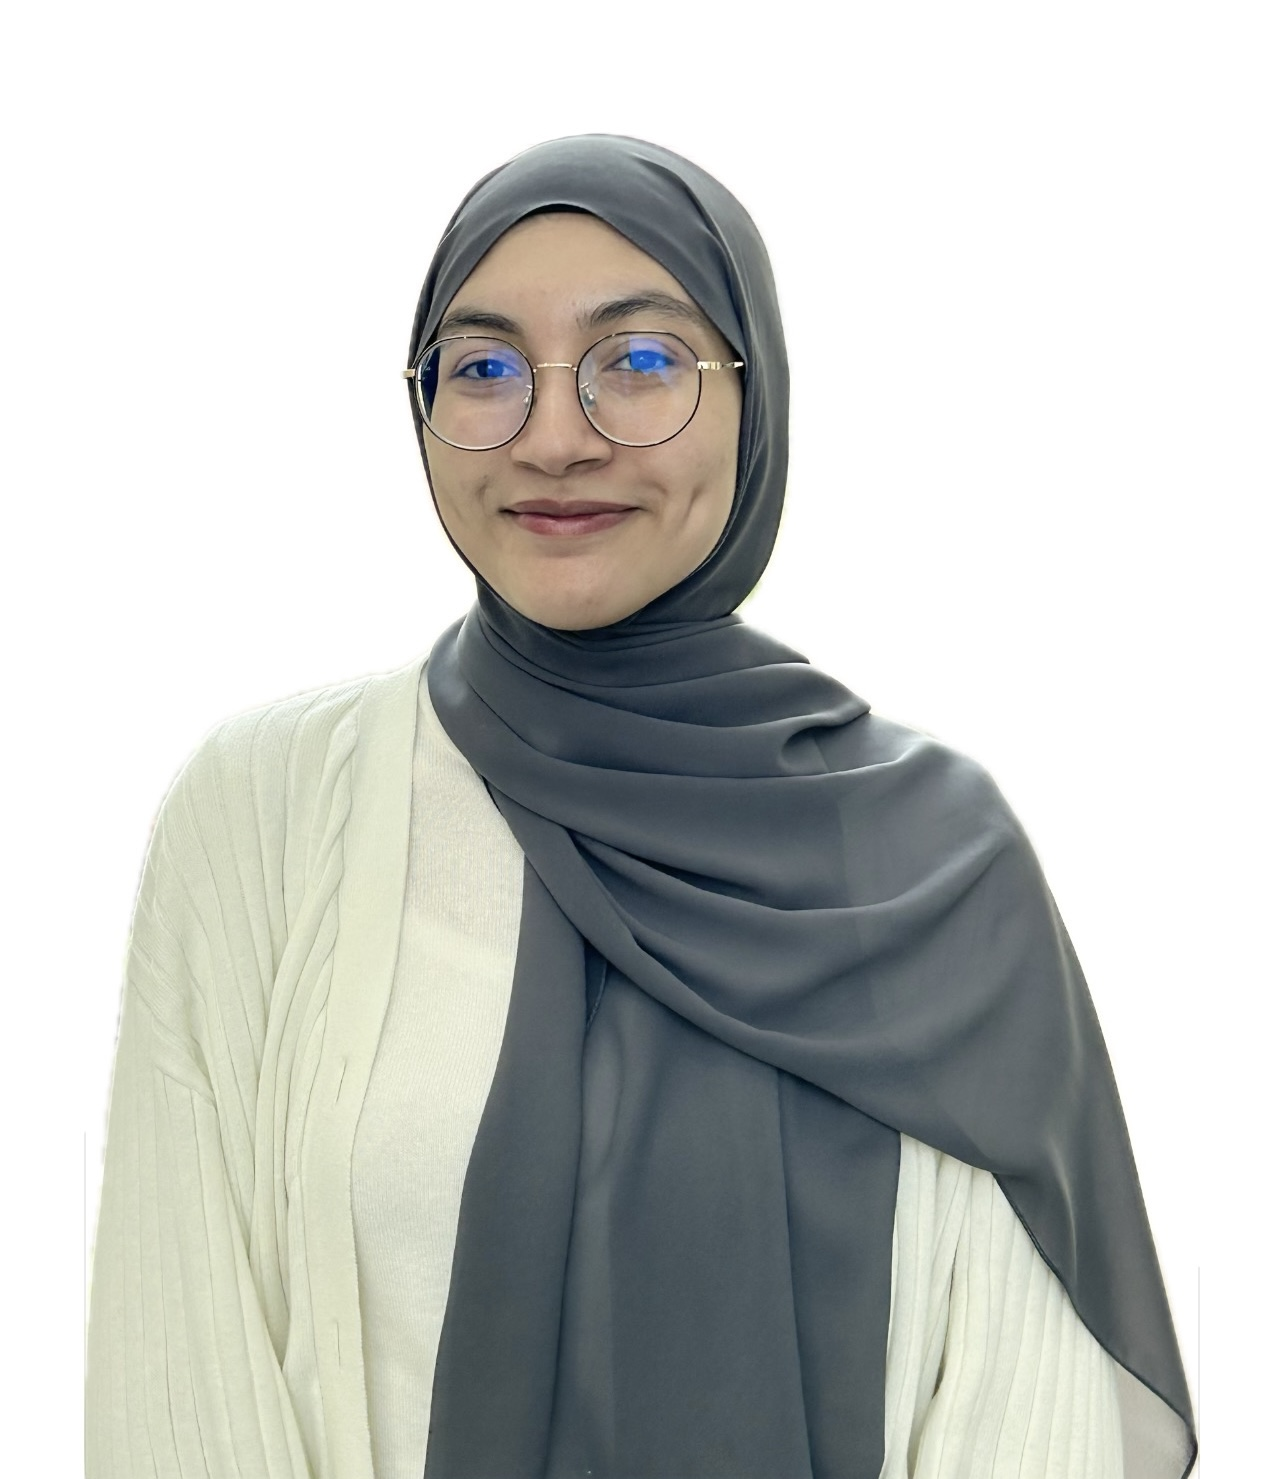
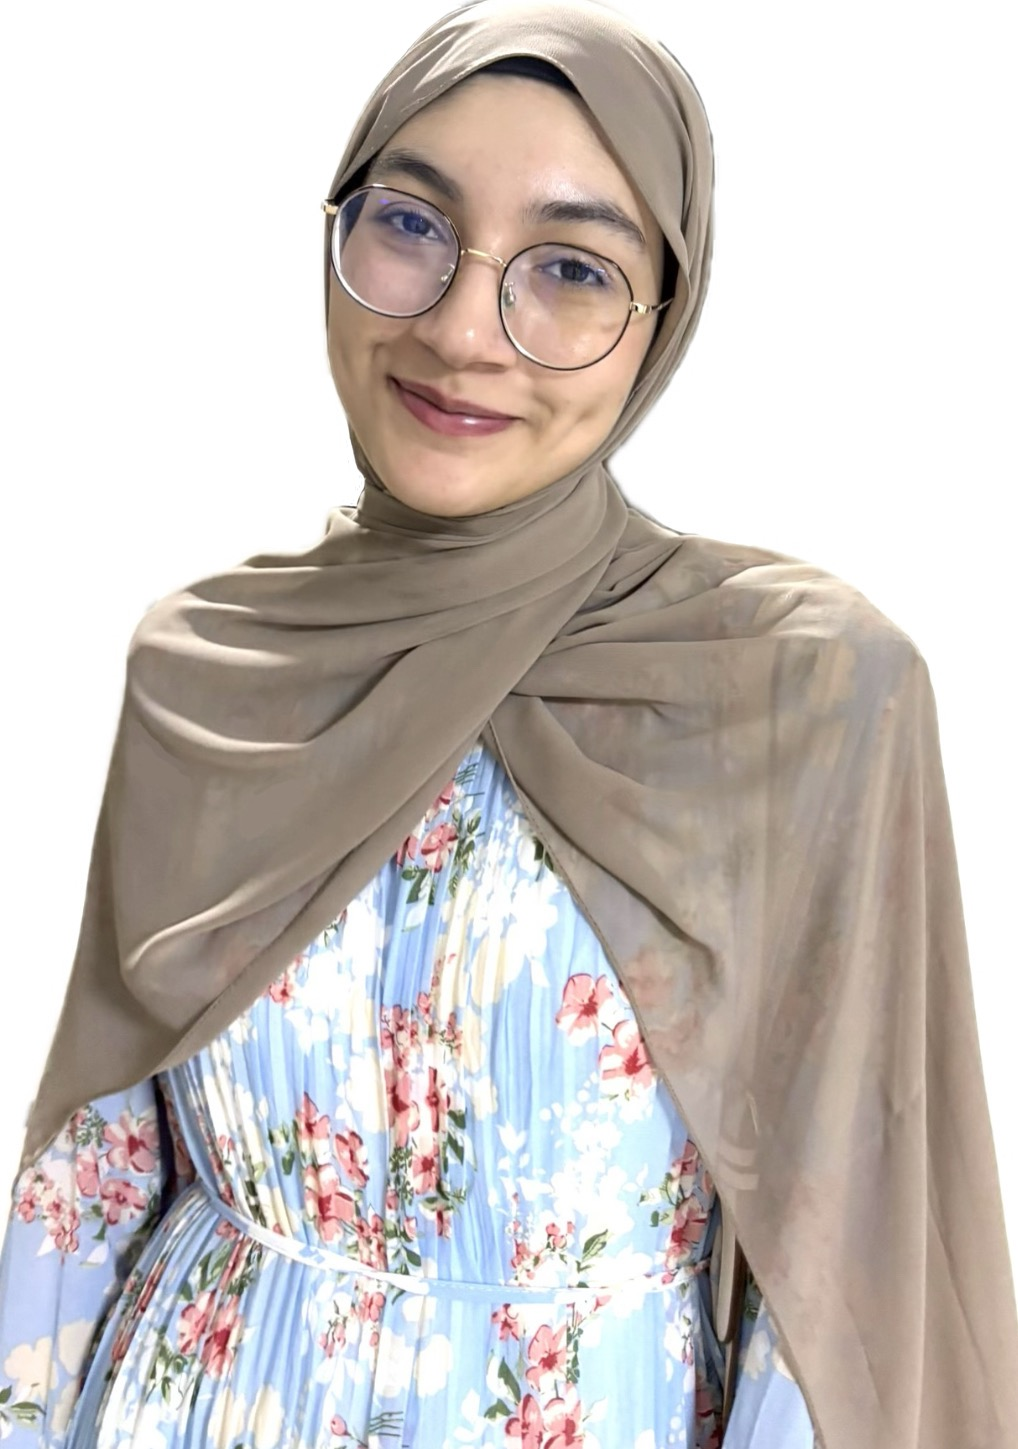
so much to fix, i gave up

diff --git a/src/app/about/page.tsx b/src/app/about/page.tsx
@@ -1,0 +1,327 @@
+// pages/about.tsx
+import React from 'react';
+import Image from 'next/image';
+
+// You can import your portfolio data here
+// import { portfolioData } from '../data/portfolioData';
+
+// Or define the skills data structure like this:
+interface Skill {
+  name: string;
+  icon: string; // path to icon or icon component
+  category: 'programming' | 'web' | 'database' | 'cloud';
+}
+
+// Sample skills data - replace with your actual data
+const skillsData: Skill[] = [
+  // Programming Languages
+  { name: 'Python', icon: '/icons/python.svg', category: 'programming' },
+  { name: 'Java', icon: '/icons/java.svg', category: 'programming' },
+  { name: 'JavaScript', icon: '/icons/javascript.svg', category: 'programming' },
+  { name: 'C#', icon: '/icons/csharp.svg', category: 'programming' },
+  
+  // Web Development
+  { name: 'HTML5', icon: '/icons/html5.svg', category: 'web' },
+  { name: 'CSS3', icon: '/icons/css3.svg', category: 'web' },
+  { name: 'React', icon: '/icons/react.svg', category: 'web' },
+  { name: 'Next.js', icon: '/icons/nextjs.svg', category: 'web' },
+  { name: 'Tailwind CSS', icon: '/icons/tailwind.svg', category: 'web' },
+  { name: 'Swift', icon: '/icons/swift.svg', category: 'web' },
+  { name: 'Node.js', icon: '/icons/nodejs.svg', category: 'web' },
+  { name: 'Spring Boot', icon: '/icons/spring.svg', category: 'web' },
+  
+  // Database
+  { name: 'MySQL', icon: '/icons/mysql.svg', category: 'database' },
+  { name: 'PostgreSQL', icon: '/icons/postgresql.svg', category: 'database' },
+];
+
+const SkillIcon: React.FC<{ skill: Skill }> = ({ skill }) => {
+  return (
+    <div className="group relative inline-block">
+      <div className="w-16 h-16 flex items-center justify-center bg-white rounded-lg shadow-md hover:shadow-lg transition-all duration-300 hover:scale-110 cursor-pointer">
+        <Image 
+          src={skill.icon} 
+          alt={skill.name}
+          width={40}
+          height={40}
+          className="object-contain"
+        />
+      </div>
+      {/* Tooltip */}
+      <div className="absolute bottom-full left-1/2 transform -translate-x-1/2 mb-2 px-3 py-1 bg-gray-800 text-white text-sm rounded-md opacity-0 group-hover:opacity-100 transition-opacity duration-300 pointer-events-none whitespace-nowrap z-10">
+        {skill.name}
+        <div className="absolute top-full left-1/2 transform -translate-x-1/2 border-l-4 border-r-4 border-t-4 border-transparent border-t-gray-800"></div>
+      </div>
+    </div>
+  );
+};
+
+// Import your reusable components
+const GeometricPattern: React.FC<{
+  side: 'left' | 'right';
+  colors: { primary: string; secondary: string; light: string };
+}> = ({ side, colors }) => {
+  const { primary, secondary, light } = colors;
+  
+  if (side === 'left') {
+    return (
+      <div className="absolute top-0 left-0 h-full w-32 flex flex-col justify-evenly z-0 pl-4">
+        {/* Top group */}
+        <div className="flex flex-col gap-1">
+          <div className="flex gap-1">
+            <div className={`w-5 h-5 ${light}`}></div>
+            <div className={`w-5 h-5 ${primary}`}></div>
+          </div>
+          <div className="flex gap-1 ml-3">
+            <div className={`w-5 h-5 ${primary}`}></div>
+            <div className={`w-5 h-5 ${secondary}`}></div>
+            <div className={`w-5 h-5 ${primary}`}></div>
+          </div>
+          <div className="flex gap-1">
+            <div className={`w-5 h-5 ${secondary}`}></div>
+            <div className={`w-5 h-5 ${primary}`}></div>
+          </div>
+        </div>
+        
+        {/* Middle group */}
+        <div className="flex flex-col gap-1">
+          <div className="flex gap-1">
+            <div className={`w-5 h-5 ${primary}`}></div>
+            <div className={`w-5 h-5 ${secondary}`}></div>
+          </div>
+          <div className="flex gap-1 ml-3">
+            <div className={`w-5 h-5 ${secondary}`}></div>
+            <div className={`w-5 h-5 ${primary}`}></div>
+            <div className={`w-5 h-5 ${light}`}></div>
+          </div>
+        </div>
+        
+        {/* Bottom group */}
+        <div className="flex flex-col gap-1">
+          <div className="flex gap-1">
+            <div className={`w-5 h-5 ${primary}`}></div>
+          </div>
+          <div className="flex gap-1 ml-3">
+            <div className={`w-5 h-5 ${secondary}`}></div>
+            <div className={`w-5 h-5 ${light}`}></div>
+            <div className={`w-5 h-5 ${primary}`}></div>
+          </div>
+          <div className="flex gap-1">
+            <div className={`w-5 h-5 ${primary}`}></div>
+            <div className={`w-5 h-5 ${secondary}`}></div>
+          </div>
+        </div>
+      </div>
+    );
+  }
+  
+  // Right pattern
+  return (
+    <div className="absolute top-0 right-0 h-full w-32 flex flex-col justify-evenly z-0 pr-4">
+      {/* Mirror the left pattern for right side */}
+      <div className="flex flex-col gap-1 items-end">
+        <div className="flex gap-1">
+          <div className={`w-5 h-5 ${primary}`}></div>
+          <div className={`w-5 h-5 ${secondary}`}></div>
+        </div>
+        <div className="flex gap-1 mr-3">
+          <div className={`w-5 h-5 ${primary}`}></div>
+          <div className={`w-5 h-5 ${secondary}`}></div>
+          <div className={`w-5 h-5 ${light}`}></div>
+        </div>
+        <div className="flex gap-1">
+          <div className={`w-5 h-5 ${secondary}`}></div>
+          <div className={`w-5 h-5 ${primary}`}></div>
+        </div>
+      </div>
+      
+      <div className="flex flex-col gap-1 items-end">
+        <div className="flex gap-1">
+          <div className={`w-5 h-5 ${primary}`}></div>
+          <div className={`w-5 h-5 ${secondary}`}></div>
+        </div>
+        <div className="flex gap-1 mr-3">
+          <div className={`w-5 h-5 ${light}`}></div>
+          <div className={`w-5 h-5 ${primary}`}></div>
+        </div>
+      </div>
+      
+      <div className="flex flex-col gap-1 items-end">
+        <div className="flex gap-1">
+          <div className={`w-5 h-5 ${primary}`}></div>
+          <div className={`w-5 h-5 ${secondary}`}></div>
+        </div>
+        <div className="flex gap-1 mr-3">
+          <div className={`w-5 h-5 ${secondary}`}></div>
+        </div>
+        <div className="flex gap-1">
+          <div className={`w-5 h-5 ${primary}`}></div>
+          <div className={`w-5 h-5 ${light}`}></div>
+          <div className={`w-5 h-5 ${secondary}`}></div>
+          <div className={`w-5 h-5 ${primary}`}></div>
+        </div>
+      </div>
+    </div>
+  );
+};
+
+const Navigation: React.FC<{
+  leftColors: { primary: string; secondary: string };
+  rightColors: { primary: string; secondary: string };
+  currentPage: string;
+}> = ({ leftColors, rightColors, currentPage }) => {
+  const navItems = ['home', 'about', 'projects', 'experience', 'contact'];
+  
+  return (
+    <nav className="flex justify-between items-center px-16 py-8 relative">
+      {/* Left Logo */}
+      <div className="relative">
+        <div className="grid grid-cols-2 grid-rows-2 gap-0.5 w-8 h-8">
+          <div className={`w-4 h-4 ${leftColors.secondary}`}></div>
+          <div className={`w-4 h-4 ${leftColors.primary}`}></div>
+          <div className={`w-4 h-4 ${leftColors.primary}`}></div>
+          <div className={`w-4 h-4 ${leftColors.secondary}`}></div>
+        </div>
+      </div>
+      
+      {/* Navigation Links */}
+      <ul className="flex space-x-12">
+        {navItems.map((item) => (
+          <li key={item}>
+            <a 
+              href={item === 'home' ? '/' : `/${item}`}
+              className={`text-lg font-medium transition-colors duration-300 relative ${
+                currentPage === item 
+                  ? 'text-purple-800' 
+                  : 'text-gray-800 hover:text-purple-600'
+              }`}
+            >
+              {item}
+              {currentPage === item && (
+                <span className="absolute -bottom-1 left-0 w-full h-0.5 bg-purple-800"></span>
+              )}
+            </a>
+          </li>
+        ))}
+      </ul>
+      
+      {/* Right Logo */}
+      <div className="relative">
+        <div className="grid grid-cols-2 grid-rows-2 gap-0.5 w-8 h-8">
+          <div className={`w-4 h-4 ${rightColors.primary}`}></div>
+          <div className={`w-4 h-4 ${rightColors.secondary}`}></div>
+          <div className={`w-4 h-4 ${rightColors.secondary}`}></div>
+          <div className={`w-4 h-4 ${rightColors.primary}`}></div>
+        </div>
+      </div>
+    </nav>
+  );
+};
+
+const AboutPage: React.FC = () => {
+  const leftPatternColors = {
+    primary: 'bg-purple-800',
+    secondary: 'bg-purple-500',
+    light: 'bg-purple-300'
+  };
+  
+  const rightPatternColors = {
+    primary: 'bg-green-600',
+    secondary: 'bg-green-400',
+    light: 'bg-green-300'
+  };
+  
+  const programmingSkills = skillsData.filter(skill => skill.category === 'programming');
+  const webSkills = skillsData.filter(skill => skill.category === 'web');
+  const databaseSkills = skillsData.filter(skill => skill.category === 'database');
+  
+  return (
+    <div className="min-h-screen bg-gray-50 overflow-x-hidden">
+      <Navigation 
+        leftColors={{ primary: 'bg-purple-800', secondary: 'bg-purple-500' }}
+        rightColors={{ primary: 'bg-green-600', secondary: 'bg-green-400' }}
+        currentPage="about"
+      />
+      
+      {/* Main Content */}
+      <main className="relative px-8 py-16 max-w-4xl mx-auto">
+        {/* Left Pattern */}
+        <GeometricPattern side="left" colors={leftPatternColors} />
+        
+        {/* Right Pattern */}
+        <GeometricPattern side="right" colors={rightPatternColors} />
+        
+        {/* Content Container */}
+        <div className="relative z-10 space-y-12">
+          {/* About Me Section */}
+          <section className="text-center">
+            <h1 className="text-5xl font-black text-gray-900 mb-8 italic font-serif">
+              about me
+            </h1>
+            <p className="text-lg text-gray-700 leading-relaxed max-w-3xl mx-auto">
+              I&apos;m a passionate developer with a strong interest in IT, Networking,
+              Cloud Computing, Dev Ops, Software Development and UI/UX Design. I
+              love creating innovative solutions and exploring new technologies.
+            </p>
+          </section>
+          
+          {/* Technical Skills Section */}
+          <section>
+            <h2 className="text-3xl font-bold text-gray-900 mb-8 text-center">
+              Technical Skills
+            </h2>
+            
+            {/* Programming Languages */}
+            <div className="mb-12">
+              <h3 className="text-xl font-semibold text-gray-800 mb-6">
+                Programming languages
+              </h3>
+              <div className="flex flex-wrap gap-6 justify-center">
+                {programmingSkills.map((skill, index) => (
+                  <SkillIcon key={index} skill={skill} />
+                ))}
+              </div>
+            </div>
+            
+            {/* Web Development */}
+            <div className="mb-12">
+              <h3 className="text-xl font-semibold text-gray-800 mb-6">
+                Web development
+              </h3>
+              <div className="flex flex-wrap gap-6 justify-center">
+                {webSkills.map((skill, index) => (
+                  <SkillIcon key={index} skill={skill} />
+                ))}
+              </div>
+            </div>
+            
+            {/* Database */}
+            <div className="mb-12">
+              <h3 className="text-xl font-semibold text-gray-800 mb-6">
+                Database
+              </h3>
+              <div className="flex flex-wrap gap-6 justify-center">
+                {databaseSkills.map((skill, index) => (
+                  <SkillIcon key={index} skill={skill} />
+                ))}
+              </div>
+            </div>
+            
+            {/* Cloud & DevOps - You can add this section */}
+            <div className="mb-12">
+              <h3 className="text-xl font-semibold text-gray-800 mb-6">
+                Cloud & DevOps
+              </h3>
+              <div className="flex flex-wrap gap-6 justify-center">
+                {/* Add your cloud/devops skills here */}
+                <div className="text-gray-500">Coming soon...</div>
+              </div>
+            </div>
+          </section>
+        </div>
+      </main>
+    </div>
+  );
+};
+
+export default AboutPage;

diff --git a/src/data/portfolio.ts b/src/data/portfolio.ts
@@ -9,6 +9,40 @@ export const portfolioData = {
         bio: "I'm a passionate developer with a strong interest in IT, Networking, Cloud Computing, Dev Ops, Software Development and UI/UX Design. I love creating innovative solutions and exploring new technologies.",
         cv: "src/assets/SimrahShabandri_CV.pdf"
     },
+      skills: [
+    // Programming Languages
+    { name: 'Python', icon: '/icons/python.svg', category: 'programming' },
+    { name: 'Java', icon: '/icons/java.svg', category: 'programming' },
+    { name: 'JavaScript', icon: '/icons/javascript.svg', category: 'programming' },
+    { name: 'TypeScript', icon: '/icons/typescript.svg', category: 'programming' },
+    { name: 'Bash', icon: '/icons/csharp.svg', category: 'programming' },
+    
+    // Web Development
+    { name: 'HTML5', icon: '/icons/html5.svg', category: 'web' },
+    { name: 'CSS3', icon: '/icons/css3.svg', category: 'web' },
+    { name: 'React', icon: '/icons/react.svg', category: 'web' },
+    { name: 'Next.js', icon: '/icons/nextjs.svg', category: 'web' },
+    { name: 'Tailwind CSS', icon: '/icons/tailwind.svg', category: 'web' },
+    { name: 'Swift', icon: '/icons/swift.svg', category: 'web' },
+    { name: 'Node.js', icon: '/icons/nodejs.svg', category: 'web' },
+    { name: 'Spring Boot', icon: '/icons/spring.svg', category: 'web' },
+    
+    // Database
+    { name: 'MySQL', icon: '/icons/mysql.svg', category: 'database' },
+    { name: 'MariaDB', icon: '/icons/postgresql.svg', category: 'database' },
+    { name: 'PostgreSQL', icon: '/icons/mongodb.svg', category: 'database' },
+    
+    // Cloud & DevOps
+    { name: 'Azure', icon: '/icons/aws.svg', category: 'cloud' },
+    { name: 'AWS', icon: '/icons/docker.svg', category: 'cloud' },
+    { name: 'Docker', icon: '/icons/kubernetes.svg', category: 'cloud' },
+    { name: 'Jenkins', icon: '/icons/jenkins.svg', category: 'cloud' },
+    
+    // Tools
+    { name: 'Git', icon: '/icons/git.svg', category: 'tools' },
+    { name: 'VS Code', icon: '/icons/vscode.svg', category: 'tools' },
+    { name: 'Figma', icon: '/icons/figma.svg', category: 'tools' },
+    ],
     projects: {
         webDevelopement: [
         {
